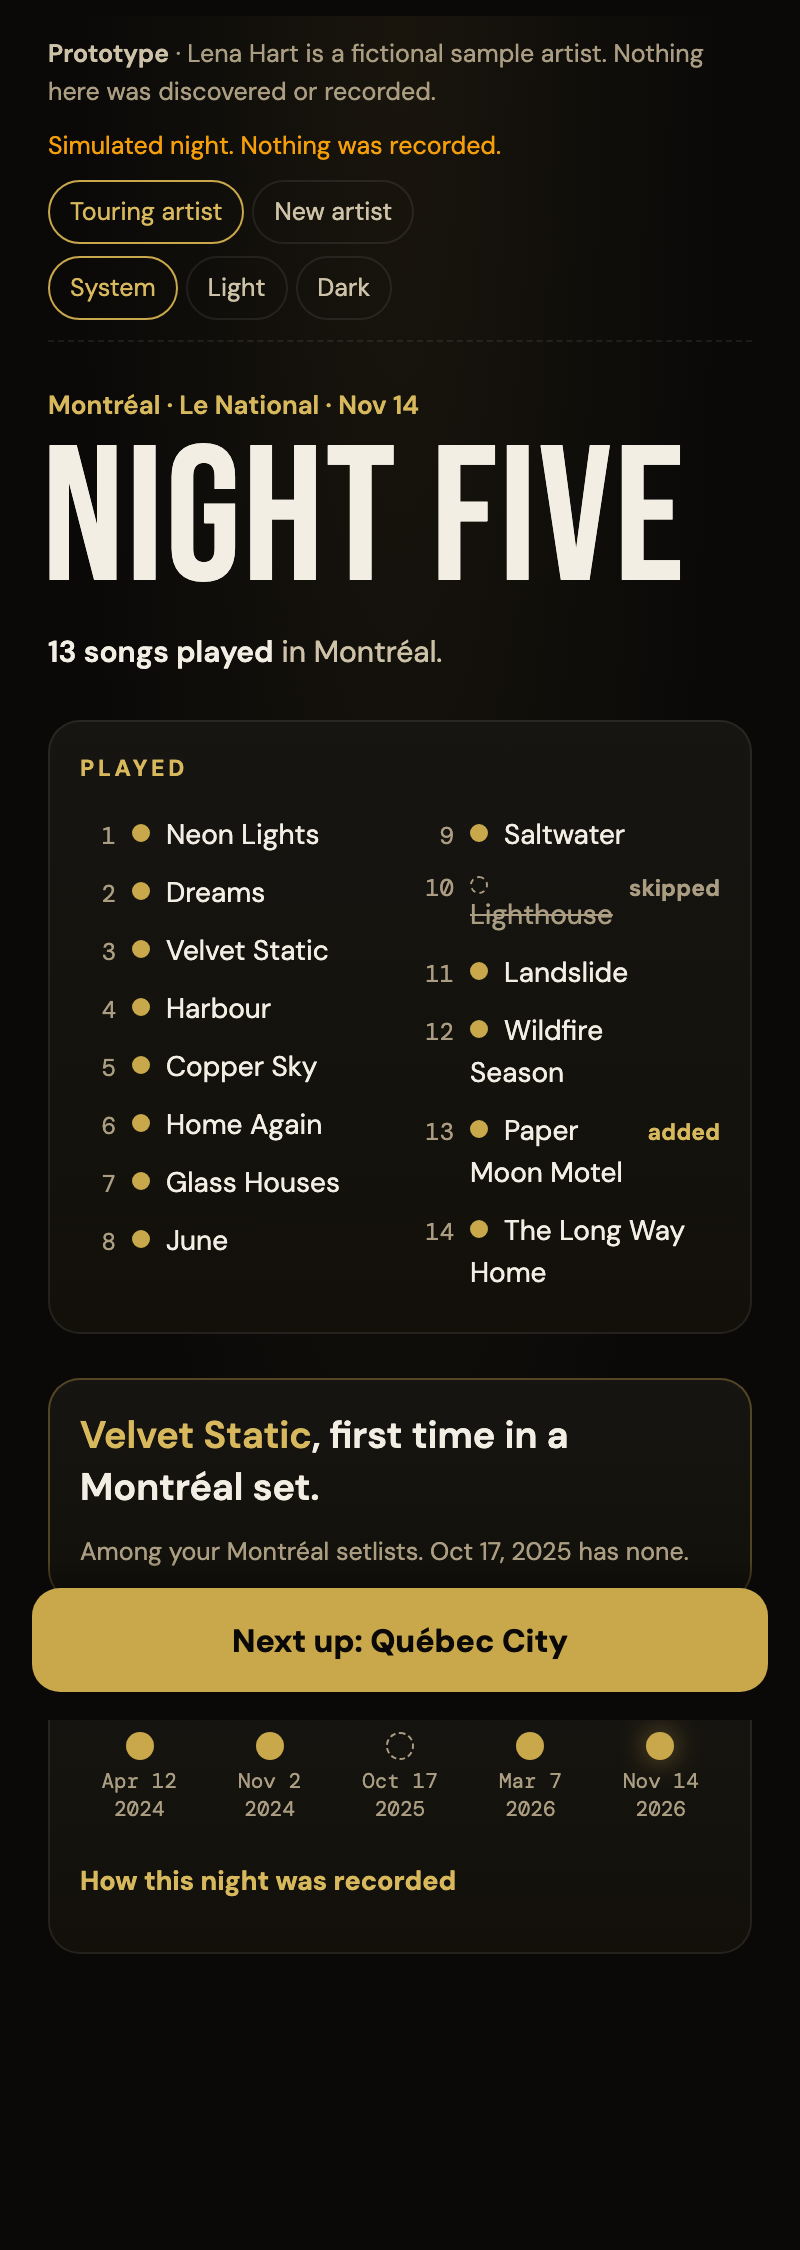
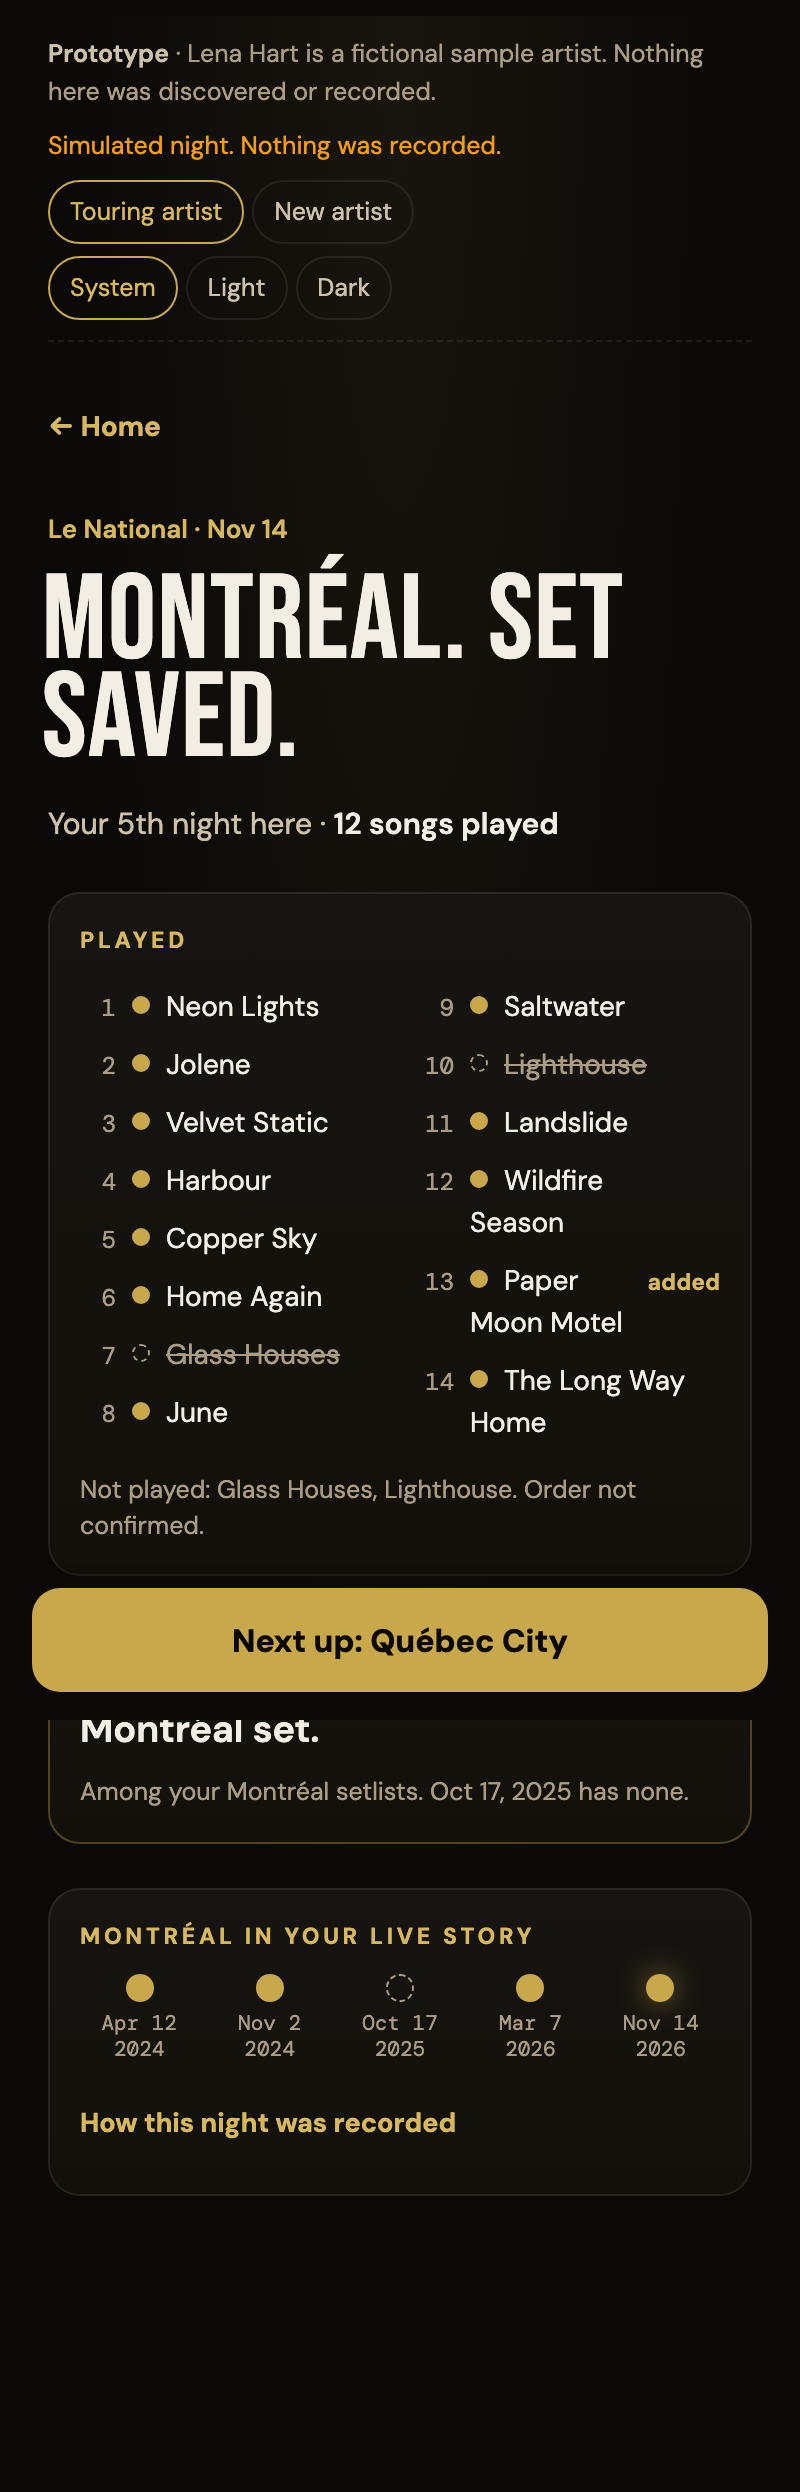
Docs: freeze prototype v5 for customer testing (Home section, 'Set saved', explicit song confirmation)

diff --git a/setlistr-2/docs/live-passport-prototype/passport-loop.html b/setlistr-2/docs/live-passport-prototype/passport-loop.html
@@ -157,6 +157,21 @@ details.how dd { margin: 0 0 4px; color: var(--sl-text-3); }
 .btn:disabled { opacity: .45; cursor: default; }
 .act small { font-size: 12.5px; color: var(--sl-text-3); text-align: center; max-width: 520px; }
 .back { background: none; border: 0; padding: 0; min-height: 40px; color: var(--sl-gold-text); font-weight: 700; font-size: 14px; justify-self: start; }
+.apphead { display: flex; justify-content: space-between; align-items: baseline; padding-bottom: 10px; border-bottom: 1px solid var(--sl-line); }
+.apphead .wm { font-weight: 800; letter-spacing: -0.01em; font-size: 17px; }
+.apphead .pg { margin: 0; font-weight: 500; font-size: 13px; color: var(--sl-text-3); }
+.sec { margin: 6px 0 0; font-size: 17px; font-weight: 700; color: var(--sl-text); }
+.sec span { font-weight: 500; color: var(--sl-gold-text); }
+.done-h { font-size: clamp(52px, 15vw, 88px); }
+ol.set.rows li { grid-template-columns: 22px minmax(0,1fr) auto; padding: 2px 0; }
+.rowt { background: none; border: 0; padding: 8px 0; min-height: 44px; text-align: left; font-size: 15px; }
+ol.set.rows li.np .rowt { color: var(--sl-text-3); text-decoration: line-through; }
+.np-t { text-decoration: none; display: inline-block; margin-left: 6px; color: var(--sl-text-3); }
+.edit { background: none; border: 0; color: var(--sl-gold-text); font-size: 13px; font-weight: 700; min-height: 44px; padding: 0 2px; }
+.fix { background: var(--sl-bg); color: var(--sl-text); border: 1px solid var(--sl-gold); border-radius: 8px; padding: 8px; min-height: 40px; font: inherit; width: 100%; }
+.ordr { display: inline-flex; align-items: center; gap: 10px; background: none; border: 0; padding: 6px 0; min-height: 44px; font-size: 14.5px; color: var(--sl-text-2); justify-self: start; }
+.ordr .box { width: 22px; height: 22px; border-radius: 6px; border: 1.5px solid var(--sl-text-3); display: grid; place-items: center; font-size: 14px; color: var(--sl-on-accent); }
+.ordr[aria-pressed="true"] .box { background: var(--sl-accent); border-color: var(--sl-accent); }
 .skip { font-size: 12.5px; color: var(--sl-warn); border: 1px dashed var(--sl-warn); border-radius: 10px; padding: 8px 10px; }
 .toast { position: fixed; left: 50%; bottom: 104px; transform: translateX(-50%); width: min(520px, calc(100% - 32px)); background: var(--sl-surface-2); border: 1px solid color-mix(in srgb, var(--sl-gold) 40%, transparent); border-radius: 12px; padding: 10px 14px; font-size: 13.5px; z-index: 6; }
 @media (prefers-reduced-motion: reduce) { .scan { animation: none; top: 37%; } .tx li, .reveal { transition: none; } }
@@ -258,7 +273,7 @@ function discovery(show) {
 // ── Screens ───────────────────────────────────────────────────────────────
 function today() {
   const show = next()
-  if (!show) return `<section style="display:grid;gap:6px"><div class="ov">Next up</div><h1 class="city">Nothing booked</h1>
+  if (!show) return `<div class="apphead"><span class="wm">Setlistr</span><h1 class="pg">Home</h1></div><section style="display:grid;gap:6px"><h2 class="sec">Next up</h2><p class="city" style="font-size:64px;margin:0">Nothing booked</p>
     <p class="when">Add your next show and it will lead here.</p></section>${story()}`
   const d = discovery(show), n = days(A.today, show.date), when = n === 0 ? 'tonight' : n === 1 ? 'tomorrow' : `in ${n} days`
   const last = d.last, noSet = d.here.filter(x => !x.songs), lastAny = d.here[d.here.length - 1]
@@ -272,9 +287,10 @@ function today() {
     fact = `It’s in your songs. ${short(last.date)} in ${esc(last.city)} is your only set so far.`
   }
   return `
-    <section style="display:grid;gap:4px">
-      <div class="ov">Next up · ${when}</div>
-      <h1 class="city">${esc(show.city)}</h1>
+    <div class="apphead"><span class="wm">Setlistr</span><h1 class="pg">Home</h1></div>
+    <section style="display:grid;gap:4px" aria-labelledby="nextup-h">
+      <h2 class="sec" id="nextup-h">Next up <span>· ${when}</span></h2>
+      <p class="city">${esc(show.city)}</p>
       <p class="when"><b>${wday(show.date)}</b> · ${esc(show.venue)} · ${d.here.length ? `your ${ord(d.here.length + 1)} night here` : 'your first night here'}</p>
     </section>
     ${head ? `<section class="card gold">
@@ -296,7 +312,7 @@ function today() {
 function plan() {
   const d = S.sug, show = next(), planned = S.plan, changed = S.swap
   return `
-    <button class="back" data-go="today">← Next up</button>
+    <button class="back" data-go="today">← Home</button>
     <section style="display:grid;gap:4px">
       <div class="ov">Your set · ${wday(show.date)}</div>
       <p class="sub">From your ${short(d.last.date)} set${d.here.length ? ` in ${esc(show.city)}` : ''}.</p>
@@ -340,31 +356,55 @@ function makeSheet() {
 
 function confirmS() {
   const sh = S.sheet, show = next(), a = S.answers, reading = S.reading
+  const ready = a.x && a.add
+  if (ready && !S.rows) S.rows = buildRows()
   return `
+    <button class="back" data-go="today">← Home</button>
     <section style="display:grid;gap:4px"><div class="ov">After the show · ${esc(show.city)}</div><p class="sub">Your setlist photo</p></section>
     <div class="sheet" role="img" aria-label="Photo of the stage setlist (simulated)">${reading ? '<div class="scan"></div>' : ''}
       <div class="hdr">${esc(show.city.toUpperCase())} · ${short(show.date).toUpperCase()}</div>
       <ol>${sh.lines.map(l => `<li class="${l.x ? 'x' : ''} ${l.add ? 'add' : ''}">${l.add ? '^ ' : ''}${esc(l.text)}</li>`).join('')}</ol></div>
     ${reading ? `<p class="small" style="text-align:center">Reading the photo…</p>` : `
     <section style="display:grid;gap:10px">
-      <p class="say">Read ${sh.lines.length} lines. ${sh.lines.length - 2} matched your songs. <b>Two need you.</b></p>
+      <p class="say">Read ${sh.lines.length} lines. <b>Two need you.</b></p>
       <div class="q ${a.x ? 'ok' : ''}"><p><b>${esc(sh.crossed)}</b> is crossed out. Was it skipped?</p>
         <div class="opts">${[['skip', 'Skipped'], ['played', 'We played it']].map(([v, l]) => `<button class="opt" data-ans="x" data-v="${v}" aria-pressed="${a.x === v}">${l}</button>`).join('')}</div></div>
       <div class="q ${a.add ? 'ok' : ''}"><p>Handwritten <b>“${esc(SHORT[sh.extra] || sh.extra)}”</b> near the end. Which song is it?</p>
         <div class="opts">${[['song', sh.extra], ['none', 'Not a song we played']].map(([v, l]) => `<button class="opt" data-ans="add" data-v="${v}" aria-pressed="${a.add === v}">${esc(l)}</button>`).join('')}</div></div>
-      <p class="small">Order follows the sheet. Fix anything else in Review.</p>
-    </section>`}`
+    </section>
+    ${ready ? `<section class="card" id="interp">
+      <div class="kick">What you played</div>
+      <p class="small">Read from your photo. Tap a song to mark it not played, or change it.</p>
+      <ol class="set rows">${S.rows.map((r, i) => `<li class="${r.played ? '' : 'np'}">
+        <span class="i">${i + 1}</span>
+        ${S.editing === i
+          ? `<select class="fix" data-fix="${i}" aria-label="Change song ${i + 1}">${[r.song, ...A.catalog.filter(c => c !== r.song)].map(c => `<option ${c === r.song ? 'selected' : ''}>${esc(c)}</option>`).join('')}</select>`
+          : `<button class="rowt" data-tog="${i}" aria-pressed="${r.played}" aria-label="${esc(r.song)}: ${r.played ? 'played' : 'not played'}">${esc(r.song)}${r.played ? (r.fixed ? ' <span class="tag np-t">changed</span>' : '') : ' <span class="tag np-t">not played</span>'}</button>`}
+        <button class="edit" data-edit="${i}">${S.editing === i ? 'Done' : 'Change'}</button></li>`).join('')}</ol>
+      <button class="ordr" data-order aria-pressed="${!!S.order}"><span class="box">${S.order ? '✓' : ''}</span>Played in this order</button>
+    </section>` : ''}`}`
+}
+function buildRows() {
+  const rows = []
+  for (const l of S.sheet.lines) {
+    if (l.add) { if (S.answers.add === 'song') rows.push({ song: l.song, played: true, added: true }); continue }
+    rows.push({ song: l.song, played: !(l.x && S.answers.x === 'skip') })
+  }
+  return rows
 }
 
 function done() {
   const show = S.result.night, here = inCity(show.city)
+  const nth = here.length === 1 ? 'Your first night here' : `Your ${ord(here.length)} night here`
   return `
-    <section style="display:grid;gap:4px"><div class="ov">${esc(show.city)} · ${esc(show.venue)} · ${short(show.date)}</div>
-      <h1 class="city">${here.length === 1 ? 'First night' : `Night ${w(here.length)}`}</h1>
-      <p class="when"><b>${show.songs.length} songs played</b> in ${esc(show.city)}.</p></section>
+    <button class="back" data-go="home">← Home</button>
+    <section style="display:grid;gap:6px"><div class="ov">${esc(show.venue)} · ${short(show.date)}</div>
+      <h1 class="city done-h">${esc(show.city)}. Set saved.</h1>
+      <p class="when">${nth} · <b>${show.songs.length} songs played</b></p></section>
     <section class="card">
       <div class="kick" id="txk">${S.plan ? 'Planned' : 'From your photo'}</div>
-      <ol class="set compact planned tx" id="tx">${S.result.rows.map((r, i) => `<li class="${r.added ? 'arrive' : ''}" data-r="${r.state}"><span class="i">${i + 1}</span><span class="t">${esc(r.song)}</span>${r.added ? '<span class="tag">added</span>' : r.state === 'skip' ? '<span class="tag" style="color:var(--sl-text-3)">skipped</span>' : ''}</li>`).join('')}</ol>
+      <ol class="set compact planned tx" id="tx">${S.result.rows.map((r, i) => `<li class="${r.added ? 'arrive' : ''}" data-r="${r.played ? 'played' : 'skip'}"><span class="i">${i + 1}</span><span class="t">${esc(r.song)}</span>${r.added ? '<span class="tag">added</span>' : ''}</li>`).join('')}</ol>
+      <p class="small">${S.result.rows.some(r => !r.played) ? `Not played: ${S.result.rows.filter(r => !r.played).map(r => esc(r.song)).join(', ')}. ` : ''}${S.order ? '' : 'Order not confirmed.'}</p>
     </section>
     <section class="card gold reveal wait" id="rv1">
       <p class="big-say">${S.result.change}</p>
@@ -375,8 +415,8 @@ function done() {
       <div class="hist">${here.map(n => `<div class="nt"><i class="m ${n.songs ? '' : 'none'} ${n === show ? 'new' : ''}"></i><span>${short(n.date)}<br>${n.date.slice(0, 4)}</span></div>`).join('')}</div>
       <details class="how"><summary>How this night was recorded</summary><dl>
         <dt>Source</dt><dd>Stage setlist photo, read by Setlistr.</dd>
-        <dt>Your answers</dt><dd>${esc(S.sheet.crossed)}: ${S.answers.x === 'skip' ? 'skipped' : 'played'}. “${esc(SHORT[S.sheet.extra] || S.sheet.extra)}”: ${S.answers.add === 'song' ? esc(S.sheet.extra) : 'not a song played'}.</dd>
-        <dt>Order</dt><dd>From the sheet.</dd>
+        <dt>Confirmed by you</dt><dd>${show.songs.length} songs played${S.result.rows.some(r => !r.played) ? `; ${S.result.rows.filter(r => !r.played).map(r => esc(r.song)).join(', ')} not played` : ''}.</dd>
+        <dt>Order</dt><dd>${S.order ? 'Confirmed as played.' : 'From the sheet. Not confirmed.'}</dd>
         ${S.plan ? '<dt>Your set</dt><dd>Kept as planned; it isn’t part of what was played.</dd>' : ''}</dl></details>
     </section>`
 }
@@ -399,10 +439,10 @@ function story() {
 
 // ── Actions ───────────────────────────────────────────────────────────────
 const NOTES = {
-  today: 'Proposed: the Next up briefing and Your set. Schedule, photo reading, Review and Career exist today. “Add the setlist photo” skips ahead to after the show.',
+  today: 'Proposed: a Next up section on Home, and Your set. Schedule, photo reading, Review and Career exist today. “Add the setlist photo” skips ahead to after the show.',
   plan: 'Proposed: Your set, built from a past set. Optional.',
   show: () => `Skipped ahead to ${wday(next().date)}, after the show.`,
-  confirm: 'Simulated photo, drawn by the prototype. Photo reading exists in Setlistr today; nothing here was read or recorded.',
+  confirm: 'Simulated photo, drawn by the prototype. Photo reading exists in Setlistr today; nothing here was read or recorded. The song-by-song confirmation is proposed.',
   done: 'Simulated night. Nothing was recorded.',
 }
 function action() {
@@ -413,22 +453,17 @@ function action() {
       : { label: 'Add your next show', note: '', go: () => toast('Prototype: would open Schedule.') }
     case 'plan': return { label: 'Save your set', note: S.swap ? `1 change from ${short(S.sug.last.date)}.` : `Same as ${short(S.sug.last.date)}.`, go: () => { S.stage = 'show'; render(true) } }
     case 'show': return { label: 'Add setlist photo', note: '', go: openPhoto }
-    case 'confirm': return { label: 'Confirm the night', note: S.reading ? 'Reading…' : (S.answers.x && S.answers.add ? '' : 'Answer the two questions first.'), disabled: S.reading || !(S.answers.x && S.answers.add), go: confirmNight }
+    case 'confirm': return { label: 'Confirm these songs were played', note: S.reading ? 'Reading…' : (S.answers.x && S.answers.add ? `${S.rows.filter(r => r.played).length} songs` : 'Answer the two questions first.'), disabled: S.reading || !(S.answers.x && S.answers.add), go: confirmNight }
     case 'done': { const nx = A.nights.find(n => n.upcoming); return { label: nx ? `Next up: ${nx.city}` : 'Done', note: '', go: () => { A.today = S.result.night.date; reset2(); render(true) } } }
   }
 }
 function reset2() { S = { stage: 'today', plan: null, base: null, sug: null, choosing: false, swap: null, answers: {}, sheet: null, result: null } }
 function startPlan() { const show = next(); S.sug = discovery(show); S.plan = S.sug.base.slice(); S.swap = null; S.choosing = false; S.stage = 'plan'; render(true) }
-function openPhoto() { S.sug = S.sug || discovery(next()); S.sheet = makeSheet(); S.answers = {}; S.reading = true; S.stage = 'confirm'; render(true); setTimeout(() => { S.reading = false; render() }, motion() ? 1400 : 0) }
+function openPhoto() { S.sug = S.sug || discovery(next()); S.sheet = makeSheet(); S.answers = {}; S.rows = null; S.editing = null; S.order = false; S.reading = true; S.stage = 'confirm'; render(true); setTimeout(() => { S.reading = false; render() }, motion() ? 1400 : 0) }
 
 function confirmNight() {
-  const show = next(), sh = S.sheet, a = S.answers
-  const rows = []
-  for (const l of sh.lines) {
-    if (l.add) { if (a.add === 'song') rows.push({ song: l.song, state: 'played', added: true }); continue }
-    rows.push({ song: l.song, state: l.x && a.x === 'skip' ? 'skip' : 'played' })
-  }
-  const songs = rows.filter(r => r.state === 'played').map(r => r.song)
+  const show = next(), rows = S.rows
+  const songs = rows.filter(r => r.played).map(r => r.song)
   const s = S.sug.song, everBefore = s && past().some(n => n.songs && n.songs.includes(s))
   const prior = inCity(show.city), noSet = prior.filter(n => !n.songs)
   for (const n of A.nights) n.justAdded = false
@@ -446,6 +481,7 @@ function confirmNight() {
   S.result = { night: show, rows, change, qual }
   S.stage = 'done'; render(true); animateDone()
 }
+
 const cap = t => t[0].toUpperCase() + t.slice(1)
 
 function animateDone() {
@@ -477,14 +513,22 @@ document.addEventListener('click', e => {
   const b = e.target.closest('button'); if (!b) return
   const d = b.dataset
   if (d.go === 'today') { S.stage = 'today'; render(true) }
+  else if (d.go === 'home') { A.today = S.result.night.date; reset2(); render(true) }
+  else if (d.tog) { const r = S.rows[+d.tog]; r.played = !r.played; render() }
+  else if (d.edit) { S.editing = S.editing === +d.edit ? null : +d.edit; render() }
+  else if ('order' in d) { S.order = !S.order; render() }
   else if ('photo' in d) openPhoto()
   else if ('bring' in d) { S.choosing = true; render() }
   else if ('cancel' in d) { S.choosing = false; render() }
   else if (d.swap) { const i = +d.swap; S.swap = { i, from: S.plan[i], to: S.sug.song }; S.plan[i] = S.sug.song; S.choosing = false; render() }
   else if ('undo' in d) { S.plan[S.swap.i] = S.swap.from; S.swap = null; render() }
-  else if (d.ans) { S.answers[d.ans] = d.v; render() }
+  else if (d.ans) { S.answers[d.ans] = d.v; S.rows = null; S.editing = null; render() }
   else if (d.scn) { scn = d.scn; reset(); document.querySelectorAll('[data-scn]').forEach(x => x.setAttribute('aria-pressed', x === b)); render(true) }
   else if (d.th) { if (d.th === 'system') document.documentElement.removeAttribute('data-theme'); else document.documentElement.setAttribute('data-theme', d.th); document.querySelectorAll('[data-th]').forEach(x => x.setAttribute('aria-pressed', x === b)) }
+})
+document.addEventListener('change', e => {
+  const f = e.target.dataset && e.target.dataset.fix
+  if (f != null) { const r = S.rows[+f]; if (e.target.value !== r.song) { r.song = e.target.value; r.fixed = true; r.played = true } S.editing = null; render() }
 })
 render()
 </script>

diff --git a/setlistr-2/docs/live-passport-prototype/walk5.js b/setlistr-2/docs/live-passport-prototype/walk5.js
@@ -1,0 +1,38 @@
+const { chromium } = require('/Users/jesseslack/.npm/_npx/e41f203b7505f1fb/node_modules/playwright')
+const url = 'file://' + __dirname + '/passport-loop.html'
+;(async () => {
+  const b = await chromium.launch(), errs = []
+  async function page(w, h, scheme) { const p = await b.newPage({ viewport: { width: w, height: h }, colorScheme: scheme, deviceScaleFactor: 2 }); p.on('pageerror', e => errs.push(e.message)); p.on('console', m => m.type() === 'error' && errs.push(m.text())); await p.goto(url); await p.waitForTimeout(700); return p }
+  const shot = (p, n, full) => p.screenshot({ path: 'shots5/' + n + '.png', fullPage: !!full })
+  const text = async p => (await p.textContent('main')).replace(/\s+/g, ' ').slice(0, 900)
+  for (const [scheme, tag] of [['dark', 'dark'], ['light', 'light']]) {
+    const p = await page(400, 860, scheme)
+    await shot(p, `01-today-first-viewport-${tag}`)
+    if (tag === 'light') { await p.close(); continue }
+    await shot(p, '02-today-full', true); console.log('TODAY:', await text(p))
+    await p.click('#go'); await p.waitForTimeout(200); await shot(p, '03-plan-start')
+    await p.click('[data-bring]'); await p.waitForTimeout(150); await shot(p, '04-plan-choose')
+    await p.click('[data-swap="2"]'); await p.waitForTimeout(150); await shot(p, '05-plan-compare', true)
+    await p.click('#go'); await p.waitForTimeout(150); await shot(p, '06-show-day')
+    await p.click('#go'); await p.waitForTimeout(500); await shot(p, '07-photo-reading')
+    await p.waitForTimeout(1200); await shot(p, '08-confirm-questions', true); console.log('CONFIRM:', await text(p))
+    await p.click('[data-ans="x"][data-v="skip"]'); await p.click('[data-ans="add"][data-v="song"]'); await p.waitForTimeout(150)
+    await p.click('[data-tog="6"]'); await p.click('[data-edit="1"]'); await p.selectOption('[data-fix="1"]', 'Jolene')
+    await p.locator('#interp').scrollIntoViewIfNeeded(); await shot(p, '08b-interpreted-set'); console.log('ACT:', await p.textContent('#act'))
+    await p.click('#go')
+    await p.waitForTimeout(500); await shot(p, '09-transform-midway')
+    await p.waitForTimeout(2600); await shot(p, '10-done-payoff', true); console.log('DONE:', await text(p))
+    await p.click('#go'); await p.waitForTimeout(300); await shot(p, '11-next-quebec'); console.log('NEXT:', (await text(p)).slice(0, 400))
+    console.log('overflow:', await p.evaluate(() => document.documentElement.scrollWidth > innerWidth))
+  }
+  const n = await page(400, 860, 'dark'); await n.click('[data-scn=new]'); await n.waitForTimeout(200); await shot(n, '12-new-today', true); console.log('NEW:', await text(n))
+  await n.click('#go'); await n.click('[data-bring]'); await n.click('[data-swap="7"]'); await n.click('#go'); await n.click('#go'); await n.waitForTimeout(1700)
+  await n.click('[data-ans="x"][data-v="played"]'); await n.click('[data-ans="add"][data-v="none"]'); await n.click('#go'); await n.waitForTimeout(3000)
+  await shot(n, '13-new-done', true); console.log('NEW DONE:', await text(n))
+  await n.click('#go'); await n.waitForTimeout(200); await shot(n, '14-new-after'); 
+  const q = await page(400, 860, 'dark'); await q.click('[data-photo]'); await q.waitForTimeout(1700); await shot(q, '17-direct-photo-no-plan', true)
+  await q.click('[data-ans="x"][data-v="played"]'); await q.click('[data-ans="add"][data-v="song"]'); await q.click('#go'); await q.waitForTimeout(3000); await shot(q, '18-direct-done', true); console.log('DIRECT DONE:', await text(q))
+  const u = await page(400, 860, 'dark'); await u.click('#go'); await u.waitForTimeout(150); await shot(u, '19-set-unchanged'); console.log('UNCHANGED act:', await u.textContent('#act'))
+  const d = await page(1280, 900, 'dark'); await shot(d, '15-desktop-dark'); const l = await page(1280, 900, 'light'); await shot(l, '16-desktop-light')
+  console.log('errors:', errs); await b.close()
+})()

diff --git a/setlistr-2/docs/live-passport-prototype/README.md b/setlistr-2/docs/live-passport-prototype/README.md
@@ -31,3 +31,13 @@ The loop: return to a city, make a creative decision, record what happened, see 
 The new-artist state has one previous set and a show in a new city.
 
 **Screenshots:** in `loop-shots/`, made by `walk3.js`.
+
+## FROZEN for customer testing: version 5 (2026-11-02)
+
+- **Artifact:** https://claude.ai/artifact/EwVAyKjY2LMuhXtPUVHo2d, version 5 (version id `1793636938-1136`).
+- **File:** `passport-loop.html`, sha256 prefix `1507016b928256ab`. It is the same file as the artifact.
+- **Changes since version 4:**
+  - Next up is a section of Home (Setlistr · Home), not a separate destination.
+  - The completion headline is "[City]. Set saved.", with the night count underneath. The discovery is kept.
+  - **Explicit confirmation:** after the two photo questions, the whole set as read is shown. You can mark any song not played or change it. Song order stays unconfirmed unless you tick "Played in this order". The final action is "Confirm these songs were played".
+- **Do not change this version during testing.** Record findings separately.
